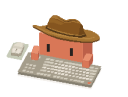
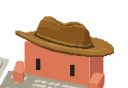
release: promote 0.4.0 with in-place updates and concise settings

diff --git a/web/settings.html b/web/settings.html
@@ -1,8 +1,8 @@
 <!doctype html>
-<html lang="zh-CN"><head><meta charset="utf-8"><meta name="viewport" content="width=device-width,initial-scale=1"><title>Clawd · Beta 设置</title><link rel="stylesheet" href="settings.css"></head>
+<html lang="zh-CN"><head><meta charset="utf-8"><meta name="viewport" content="width=device-width,initial-scale=1"><title>Clawd · 设置</title><link rel="stylesheet" href="settings.css"></head>
 <body>
 <main class="card">
-<header class="head"><h1>设置 · Beta</h1><button id="help-toggle" class="icon" type="button" data-help aria-expanded="false" aria-controls="help" title="说明">?</button></header>
+<header class="head"><h1>设置</h1><button id="help-toggle" class="icon" type="button" data-help aria-expanded="false" aria-controls="help" title="说明">?</button></header>
 <nav class="tabs" role="tablist" aria-label="设置分类">
 <button type="button" role="tab" id="tab-appearance" data-tab="appearance" aria-selected="true" aria-controls="panel-appearance">外观</button>
 <button type="button" role="tab" id="tab-rest" data-tab="rest" aria-selected="false" aria-controls="panel-rest" tabindex="-1">休息</button>
@@ -16,8 +16,8 @@
 <input id="scale" type="range" min="60" max="160" step="1" value="100">
 <div class="chips" role="group" aria-label="快捷大小"><button type="button" data-scale="75">75%</button><button type="button" data-scale="100">100%</button><button type="button" data-scale="125">125%</button><button type="button" data-scale="150">150%</button></div>
 </div>
-<label class="row switch"><span>手臂方向感<small>轻微向远近、内外伸手；关闭沿用原来的小短手</small></span><input id="directionalArms" type="checkbox" checked><i aria-hidden="true"></i></label>
-<label class="row switch"><span>镜像工位<small>左右翻转，按钮一起换边，文字保持正向</small></span><input id="mirrored" type="checkbox"><i aria-hidden="true"></i></label>
+<label class="row switch"><span>手臂方向感<small>关闭沿用原固定位</small></span><input id="directionalArms" type="checkbox" checked><i aria-hidden="true"></i></label>
+<label class="row switch"><span>镜像工位<small>左右翻转</small></span><input id="mirrored" type="checkbox"><i aria-hidden="true"></i></label>
 <label class="row switch"><span>始终置顶</span><input id="alwaysOnTop" type="checkbox" checked><i aria-hidden="true"></i></label>
 <label class="row switch"><span>侧边按钮<small>右侧的设置、装饰、暂停方块</small></span><input id="sideButtons" type="checkbox" checked><i aria-hidden="true"></i></label>
 <label class="row switch"><span>小蟹台词<small>状态变化时在头顶冒泡</small></span><input id="bubbleLines" type="checkbox" checked><i aria-hidden="true"></i></label>
@@ -35,9 +35,8 @@
 <p class="note">只记录次数，不读取输入内容</p>
 </section>
 <section class="panel" id="panel-system" data-panel="system" role="tabpanel" aria-labelledby="tab-system" hidden>
-<label class="row switch"><span>开机自启动<small>登录 Windows 后自动显示小蟹</small></span><input id="autostartEnabled" type="checkbox"><i aria-hidden="true"></i></label>
-<p class="note">Beta 更新试验不稳定，愿意尝鲜再开启；安装前会再次询问。</p>
-<label class="row switch"><span>每天自动检查更新 · Beta<small>每天首次启动检查，默认关闭，可手动检查</small></span><input id="autoCheckUpdates" type="checkbox"><i aria-hidden="true"></i></label>
+<label class="row switch"><span>开机自启动</span><input id="autostartEnabled" type="checkbox"><i aria-hidden="true"></i></label>
+<label class="row switch"><span>自动检查更新<small>每天首次启动检查，默认关闭，可手动检查</small></span><input id="autoCheckUpdates" type="checkbox"><i aria-hidden="true"></i></label>
 <div class="system-actions"><button type="button" id="check-updates">检查更新</button><button type="button" id="uninstall">卸载 Bongo Clawd</button></div>
 <p class="note" id="install-note"></p>
 <p class="note" id="system-status" role="status" aria-live="polite"></p>
@@ -53,6 +52,8 @@
 <div class="sheet" id="about" hidden role="region" aria-label="关于">
 <h2>关于</h2>
 <p id="about-version">Bongo Clawd</p>
+<p>作者：<a href="https://github.com/miyomochi" id="author-link">小猫蛋挞/Miyo</a></p>
+<p>仓库：<a href="https://github.com/miyomochi/bongo-clawd" id="repository-link">Bongo Clawd</a></p>
 <p>联动状态：<span id="about-phase">连接中</span></p>
 <div class="sheet-actions"><button type="button" id="usage">运行占用</button><button type="button" id="retry-input">重试连接</button></div>
 </div>

diff --git a/web/update-dialog.js b/web/update-dialog.js
@@ -7,8 +7,8 @@
   function render(next){
    if(disposed)return;if(next?.phase==='available'&&value.phase!=='available')snooze.checked=false;value=next||{phase:'idle'};
    const phase=value.phase;
-   title.textContent=({idle:'小蟹更新',checking:'小蟹正在检查更新',current:'已经是最新版本',available:'发现小蟹新版本！',downloading:'正在下载更新',verifying:'正在校验更新包',installing:'准备打开安装向导',success:'更新完成！',error:'这次更新没成功'})[phase]||'小蟹更新';
-   message.textContent=phase==='error'?value.error||'请稍后重试。':({checking:'正在查看有没有新版本…',current:'小蟹已经准备好继续工作。',available:value.installed?'安装向导会更新当前安装位置，并保留个人设置。':'将下载并打开安装版向导，个人设置会保留。',downloading:'下载完成后会核对 SHA-256，再打开安装向导。',verifying:'确认下载内容完整且与发布版本一致。',installing:'小蟹将退出，随后打开安装向导。',success:value.message||'小蟹变得更厉害了一点！'})[phase]||'';
+   title.textContent=({idle:'小蟹更新',checking:'小蟹正在检查更新',current:'已经是最新版本',available:'发现小蟹新版本！',downloading:'正在下载更新',verifying:'正在校验更新包',installing:'准备安装更新',success:'更新完成！',error:'这次更新没成功'})[phase]||'小蟹更新';
+   message.textContent=phase==='error'?value.error||'请稍后重试。':({checking:'正在查看有没有新版本…',current:'小蟹已经准备好继续工作。',available:'将更新到原位置，并保留个人设置。',downloading:'下载完成后会核对 SHA-256，再安装更新。',verifying:'确认下载内容完整且与发布版本一致。',installing:'小蟹将退出，安装完成后自动重启。',success:value.message||'小蟹变得更厉害了一点！'})[phase]||'';
    version.textContent=value.release?.version?'版本 '+value.release.version:'';
    noteBlock.hidden=!['available','current'].includes(phase);notes.textContent=value.release?.notes||'发布者暂未提供更新日志。';
    progress.hidden=!busy();const finite=phase==='downloading'&&Number.isFinite(value.progress);progress.classList.toggle('is-indeterminate',!finite);fill.style.width=finite?Math.round(Math.max(0,Math.min(1,value.progress))*100)+'%':'28%';if(finite)progress.setAttribute('aria-valuenow',String(Math.round(value.progress*100)));else progress.removeAttribute('aria-valuenow');progress.setAttribute('aria-valuemin','0');progress.setAttribute('aria-valuemax','100');progress.setAttribute('aria-label',finite?'下载进度 '+Math.round(value.progress*100)+'%':'处理中');

diff --git a/web/settings-renderer.js b/web/settings-renderer.js
@@ -77,6 +77,7 @@
   function closeSheets(except){for(const [k,[sheet,btn]] of Object.entries(sheets))if(k!==except){sheet.hidden=true;btn.setAttribute('aria-expanded','false');}}
   for(const [k,[sheet,btn]] of Object.entries(sheets))btn.addEventListener('click',()=>{const open=sheet.hidden;closeSheets(k);sheet.hidden=!open;btn.setAttribute('aria-expanded',String(open));});
   document.addEventListener('keydown',e=>{if(e.key==='Escape')closeSheets();});
+  for(const [id,target] of [['author-link','author'],['repository-link','repository']])$(id).addEventListener('click',e=>{e.preventDefault();Promise.resolve(bridge.openProjectLink?.(target)).catch(()=>{});});
   $('usage').addEventListener('click',()=>Promise.resolve(bridge.usage?.()).catch(()=>{}));
   $('retry-input').addEventListener('click',()=>Promise.resolve(bridge.retry?.()).catch(()=>{}));
   async function systemAction(button,action){

diff --git a/web/settings.css b/web/settings.css
@@ -56,3 +56,5 @@ input[type=range]::-webkit-slider-thumb{-webkit-appearance:none;width:12px;heigh
 @media(prefers-reduced-motion:reduce){*{transition:none!important}}
 
 .system-actions{display:flex;gap:8px;flex-wrap:wrap}.system-actions button{padding:8px 12px;border:1px solid var(--line);border-radius:3px;background:var(--panel)}.system-actions button:hover{border-color:var(--accent)}.system-actions button:disabled{opacity:.5;cursor:wait}
+
+.sheet a{color:var(--accent,#e68a64);text-underline-offset:3px}

diff --git a/web/lite-bridge.js b/web/lite-bridge.js
@@ -22,6 +22,7 @@
     updateSettings:patch=>invoke('clawd_update_settings',{patch}),
     closeSettings:()=>invoke('clawd_close_settings'),
     retry:()=>invoke('clawd_retry'),
+    openProjectLink:target=>invoke('clawd_open_project_link',{target}),
     usage:()=>invoke('clawd_usage'),
     autostart:enabled=>invoke('clawd_autostart',{enabled}),
     checkUpdates:()=>invoke('clawd_check_updates'),

diff --git a/scripts/publish-stable.py b/scripts/publish-stable.py
@@ -1,0 +1,76 @@
+"""Publish the verified stable build, migrate both feeds, and withdraw the preview."""
+from pathlib import Path
+import base64, hashlib, json, os, subprocess, tempfile, zipfile
+
+root = Path(__file__).resolve().parents[1]
+repo = os.environ['GITHUB_REPOSITORY']
+commit = os.environ['GITHUB_SHA']
+version = json.loads((root/'src-tauri/tauri.conf.json').read_text())['version']
+assert repo == 'miyomochi/bongo-clawd' and version == '0.4.0'
+assert os.environ['GITHUB_REF_NAME'] == 'release/stable-0.4.0'
+tag = 'v'+version
+
+def gh(*args, payload=None):
+    if payload is None:
+        return subprocess.check_output(['gh', *args], text=True)
+    with tempfile.NamedTemporaryFile('w', suffix='.json', encoding='utf-8', delete=False) as f:
+        json.dump(payload, f, ensure_ascii=False); name = f.name
+    try:
+        return subprocess.check_output(['gh', *args, '--input', name], text=True)
+    finally:
+        Path(name).unlink()
+
+def api(path, payload=None, method=None):
+    args = ['api', 'repos/'+repo+'/'+path]
+    if method:
+        args += ['--method', method]
+    return json.loads(gh(*args, payload=payload))
+
+assert api('git/ref/heads/release/stable-0.4.0')['object']['sha'] == commit
+old_head = api('git/ref/heads/main')['object']['sha']
+old_tree = api('git/commits/'+old_head)['tree']['sha']
+for channel, expected in [('latest','0.3.0'),('beta','0.4.0-beta')]:
+    data = api(f'contents/updates/{channel}.json?ref={old_head}')
+    assert json.loads(base64.b64decode(data['content']))['version'] == expected
+names = [f'Bongo-Clawd-{version}-Windows-x64.zip', f'Bongo-Clawd-{version}-Windows-x64-Setup.zip']
+paths = [root/'dist'/n for n in names]
+checksums = root/'dist/SHA256SUMS.txt'
+for p in paths:
+    with zipfile.ZipFile(p) as z:
+        assert z.testzip() is None
+    assert hashlib.sha256(p.read_bytes()).hexdigest()+'  '+p.name in checksums.read_text()
+assert subprocess.run(['gh','release','view',tag,'--repo',repo],capture_output=True).returncode != 0
+gh('release','create',tag,'--repo',repo,'--target',commit,'--draft','--latest=false',
+   '--title',version,'--notes-file',str(root/'releases/v0.4.0.md'),*map(str,paths),str(checksums))
+with tempfile.TemporaryDirectory() as folder:
+    gh('release','download',tag,'--repo',repo,'--dir',folder)
+    for p in paths:
+        assert hashlib.sha256((Path(folder)/p.name).read_bytes()).digest() == hashlib.sha256(p.read_bytes()).digest()
+gh('release','edit',tag,'--repo',repo,'--draft=false','--prerelease=false','--latest')
+manifest = {
+    'version':version,
+    'download_url':f'https://github.com/{repo}/releases/download/{tag}/{names[1]}',
+    'sha256':hashlib.sha256(paths[1].read_bytes()).hexdigest(),
+    'notes':(root/'releases/v0.4.0.md').read_text(encoding='utf-8').strip(),
+}
+text = json.dumps(manifest,ensure_ascii=False,indent=2)+'\n'
+tree = api('git/trees',payload={'base_tree':old_tree,'tree':[
+    {'path':f'updates/{channel}.json','mode':'100644','type':'blob','content':text}
+    for channel in ['latest','beta']]},method='POST')
+change = api('git/commits',payload={
+    'message':'release: publish 0.4.0 stable update feeds [skip ci]',
+    'tree':tree['sha'],'parents':[old_head]},method='POST')
+api('git/refs/heads/main',payload={'sha':change['sha'],'force':False},method='PATCH')
+# The old experimental release remains unchanged apart from this user-verified note.
+old = api('releases/tags/v0.3.1-beta')
+note = '自动检查更新功能已通过作者实机验证。'
+body = old.get('body') or ''
+if note not in body:
+    api('releases/'+str(old['id']),payload={'body':body.rstrip()+'\n\n'+note},method='PATCH')
+# Withdraw the public preview only after a stable installer and both feeds are ready.
+preview = api('releases/tags/v0.4.0-beta')
+api('releases/'+str(preview['id']),payload={'draft':True},method='PATCH')
+for channel in ['latest','beta']:
+    data = api(f'contents/updates/{channel}.json?ref=main')
+    assert json.loads(base64.b64decode(data['content'])) == manifest
+print(f'Published https://github.com/{repo}/releases/tag/{tag}; both update feeds advanced; beta preview withdrawn.')

diff --git a/scripts/verify-edition.py b/scripts/verify-edition.py
@@ -3,14 +3,14 @@ from pathlib import Path
 import argparse,hashlib,json,re,subprocess
 p=argparse.ArgumentParser();p.add_argument('edition',choices=['stable','beta']);a=p.parse_args()
 root=Path(__file__).resolve().parents[1];read=lambda n:(root/n).read_text(encoding='utf-8')
-version={'stable':'0.3.0','beta':'0.4.0-beta'}[a.edition]
+version={'stable':'0.4.0','beta':'0.4.0-beta'}[a.edition]
 assert json.loads(read('src-tauri/tauri.conf.json'))['version']==version
 assert re.search(r'^version = "'+re.escape(version)+'"$',read('src-tauri/Cargo.toml'),re.M)
 assert 'name = "bongo-clawd-lite"\nversion = "'+version+'"' in read('src-tauri/Cargo.lock')
-assert ('mod update_service;' in read('src-tauri/src/main.rs'))==(a.edition=='beta')
-assert ('autoCheckUpdates' in read('web/settings.html'))==(a.edition=='beta')
-assert ('clawd-update-visuals.js' in read('web/index.html'))==(a.edition=='beta')
-assert (root/'src-tauri/src/update_service.rs').exists()==(a.edition=='beta')
+assert ('mod update_service;' in read('src-tauri/src/main.rs'))
+assert ('autoCheckUpdates' in read('web/settings.html'))
+assert ('clawd-update-visuals.js' in read('web/index.html'))
+assert (root/'src-tauri/src/update_service.rs').exists()
 if a.edition=='beta':
  assert 'auto_check_updates: false' in read('src-tauri/src/preferences.rs')
  assert '/updates/beta.json' in read('src-tauri/src/system.rs')
@@ -25,9 +25,9 @@ assert 'nativeDragging=true;controller.cancelReaction()' not in read('web/deskto
 assert 'icon-background' in read('src-tauri/icons/icon.svg')
 source=subprocess.check_output(['git','rev-parse','HEAD'],cwd=root,text=True).strip()
 shared=['web/desktop.css','web/core/clawd-reactions.js','src-tauri/icons/icon.svg','src-tauri/icons/icon.png','src-tauri/icons/icon.ico']
-base={'stable':'2ab3032aed2ab42aa8b7617bbfb88b9db55bab07','beta':'e17be70268b668295d829bc8561bef6f60a7ed28'}[a.edition]
+base={'stable':'e8105c0a01cd13086ef382666289f9006b5d223f','beta':'e17be70268b668295d829bc8561bef6f60a7ed28'}[a.edition]
 for n in ['src-tauri/src/input.rs','src-tauri/src/statistics.rs']:
  assert (root/n).read_bytes()==subprocess.check_output(['git','show',base+':'+n],cwd=root), 'Native statistics/input changed'
-report={'edition':a.edition,'version':version,'source_commit':source,'automatic_updates_experimental':a.edition=='beta','native_statistics_unchanged':True,'shared_asset_sha256':{n:hashlib.sha256((root/n).read_bytes()).hexdigest() for n in shared}}
+report={'edition':a.edition,'version':version,'source_commit':source,'automatic_updates_experimental':a.edition=='beta','automatic_updates_user_verified':a.edition=='stable','native_statistics_unchanged':True,'shared_asset_sha256':{n:hashlib.sha256((root/n).read_bytes()).hexdigest() for n in shared}}
 (root/'EDITION.json').write_text(json.dumps(report,indent=2)+'\n',encoding='utf-8')
 print(json.dumps(report))

diff --git a/src-tauri/src/system.rs b/src-tauri/src/system.rs
@@ -9,6 +9,14 @@ fn owner(app: &tauri::AppHandle) -> isize {
 
 pub fn autostart_enabled() -> bool { native::autostart_enabled() }
 pub fn set_autostart(enabled: bool) -> Result<(), String> { native::set_autostart(enabled) }
+pub fn open_project_link(target: &str) -> Result<(), String> {
+    let url = match target {
+        "author" => "https://github.com/miyomochi",
+        "repository" => "https://github.com/miyomochi/bongo-clawd",
+        _ => return Err("Unknown project link".into()),
+    };
+    native::open_url(url)
+}
 pub fn installed() -> bool { native::uninstaller().is_some() }
 
 pub fn fetch_update_manifest() -> Result<Vec<u8>, String> { native::fetch_manifest() }
@@ -29,7 +37,7 @@ fn powershell() -> std::path::PathBuf {
 pub fn launch_update(installer: &std::path::Path) -> Result<(), String> {
     use std::os::windows::process::CommandExt;
     let old = std::env::current_exe().map_err(|e| e.to_string())?;
-    let target = if installed() { old.parent().map(|p| p.to_path_buf()) } else { None };
+    let target = old.parent().map(|p| p.to_path_buf());
     std::process::Command::new(powershell())
         .args(["-NoProfile", "-NonInteractive", "-Command", include_str!("update-launch.ps1")])
         .env("CLAWD_UPDATE_PID", std::process::id().to_string()).env("CLAWD_UPDATE_INSTALLER", installer)
@@ -120,7 +128,7 @@ mod native {
             let session = handle(WinHttpOpen(wide("BongoClawd/0.2.1").as_ptr(), WINHTTP_ACCESS_TYPE_AUTOMATIC_PROXY, null(), null(), 0))?;
             WinHttpSetTimeouts(session.0, 8000, 8000, 10000, 10000);
             let connection = handle(WinHttpConnect(session.0, wide("raw.githubusercontent.com").as_ptr(), 443, 0))?;
-            let request = handle(WinHttpOpenRequest(connection.0, wide("GET").as_ptr(), wide("/miyomochi/bongo-clawd/main/updates/beta.json").as_ptr(), null(), null(), null(), WINHTTP_FLAG_SECURE))?;
+            let request = handle(WinHttpOpenRequest(connection.0, wide("GET").as_ptr(), wide("/miyomochi/bongo-clawd/main/updates/latest.json").as_ptr(), null(), null(), null(), WINHTTP_FLAG_SECURE))?;
             let headers = wide("Cache-Control: no-cache\r\n");
             if WinHttpSendRequest(request.0, headers.as_ptr(), u32::MAX, null(), 0, 0, 0) == 0 || WinHttpReceiveResponse(request.0, null_mut()) == 0 { return Err("连接更新服务器失败。".into()); }
             let mut status = 0u32;

diff --git a/src-tauri/src/app.rs b/src-tauri/src/app.rs
@@ -106,7 +106,7 @@ pub fn snapshot(app: &tauri::AppHandle) -> Value {
     let a = s.adjustments.lock().unwrap();
     let mut value = serde_json::to_value(p).unwrap();
     let map = value.as_object_mut().unwrap();
-    map.extend(json!({"enabled":r.enabled,"running":r.running,"phase":r.phase,"detail":r.detail,"platform":"win32","settingsOpen":a.settings,"accessoryOpen":a.accessory,"popupOpen":a.popup,"edition":"Beta · 更新功能不稳定","autostartEnabled":system::autostart_enabled(),"installed":system::installed(),"version":env!("CARGO_PKG_VERSION")}).as_object().unwrap().clone());
+    map.extend(json!({"enabled":r.enabled,"running":r.running,"phase":r.phase,"detail":r.detail,"platform":"win32","settingsOpen":a.settings,"accessoryOpen":a.accessory,"popupOpen":a.popup,"edition":"Windows 桌面版","autostartEnabled":system::autostart_enabled(),"installed":system::installed(),"version":env!("CARGO_PKG_VERSION")}).as_object().unwrap().clone());
     value.as_object_mut().unwrap().insert("update".into(), serde_json::to_value(crate::update_service::view(app)).unwrap());
     value
 }
@@ -475,6 +475,12 @@ async fn clawd_install_update(window: WebviewWindow) -> Result<(),String> {
     tauri::async_runtime::spawn_blocking(move || crate::update_service::install(&app)).await.map_err(|e|e.to_string())?
 }
 #[tauri::command]
+fn clawd_open_project_link(window: WebviewWindow, target: String) -> Result<(), String> {
+    authorize(&window, false)?;
+    if window.label() != "settings" { return Err("Settings window required".into()); }
+    system::open_project_link(&target)
+}
+#[tauri::command]
 async fn clawd_uninstall(window: WebviewWindow) -> Result<(), String> {
     authorize(&window, false)?;
     if window.label() != "settings" { return Err("Settings window required".into()); }
@@ -556,6 +562,7 @@ pub fn run() {
             clawd_update_snapshot,
             clawd_update_dismiss,
             clawd_install_update,
+            clawd_open_project_link,
             clawd_uninstall
         ])
         .on_menu_event(|app, event| menu_action(app, event.id().as_ref()))

diff --git a/scripts/build-hat-thumbnails.py b/scripts/build-hat-thumbnails.py
@@ -1,0 +1,17 @@
+"""Use the original wardrobe head crop for the two new hats."""
+from pathlib import Path
+import subprocess, tempfile, xml.etree.ElementTree as E
+root = Path(__file__).resolve().parents[1]
+E.register_namespace('', 'http://www.w3.org/2000/svg')
+for name in ['cowboy-hat', 'detective-hat']:
+    scene = E.parse(root/'web/clawd-scene.svg')
+    svg = scene.getroot()
+    svg.set('viewBox', '50 -9 146 100.4')
+    svg.set('width', '128'); svg.set('height', '88')
+    for n in svg.iter():
+        if n.tag.endswith('}g') and n.get('id', '').endswith(('-front','-rear')):
+            n.set('display', 'inline' if n.get('id') == name+'-front' else 'none')
+    with tempfile.TemporaryDirectory() as tmp:
+        path = Path(tmp)/'thumb.svg'; scene.write(path, encoding='utf-8')
+        subprocess.run(['inkscape', str(path), '--export-type=png',
+                        '--export-filename='+str(root/'web/thumbs'/f'{name}.png')], check=True)

diff --git a/docs/RELEASE-CONVENTIONS.md b/docs/RELEASE-CONVENTIONS.md
@@ -1,0 +1,6 @@
+# 发布约定
+
+版本使用x.y.z；小步修改增加z，一批功能增加y。待验证版本加-beta，不在beta后叠数字。版本号只写在Release主标题；正文不重复版本标题。日志用简短的新增/修复条目，不写长篇动画剧情。
+作者显示“小猫蛋挞/Miyo”，链接到https://github.com/miyomochi；仓库单独链接https://github.com/miyomochi/bongo-clawd。
+装饰缩略图沿用原128×88、viewBox 50 -9 146 100.4的头部构图，不缩成整个工位。
+用户已实机验证旧Beta到0.4.0-beta的自动更新。正式0.4.0发布后，0.3.1-beta只追加验证说明，0.4.0-beta撤回为草稿，保留源码和附件归档。

diff --git a/releases/v0.4.0.md b/releases/v0.4.0.md
@@ -1,0 +1,6 @@
+- 新增牛仔帽、侦探帽装扮及专属动作。
+- 新增「偷偷打游戏」「吹泡泡」「魔法变身」待机动作。
+- 新增装饰翻页，统一装饰预览样式。
+- 完善快速敲击时的动画衔接。
+- 自动检查更新功能已通过实机验证，更新时直接安装到原位置。
+- 精简设置说明，关于页面增加作者及仓库链接。
